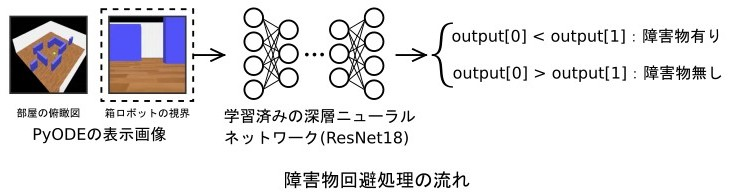
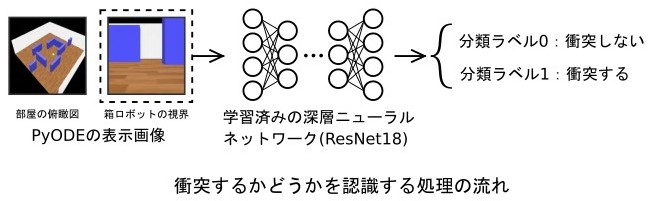
product1

Changed region(s): [[0.0, 0.0309, 1.0, 0.7423], [0.245, 0.866, 0.7963, 0.9897]]

diff --git a/product1.html b/product1.html
@@ -33,8 +33,8 @@
         <h3 id="info0003">ロボットビジョン1 「転がる箱ロボットの衝突回避」の実行例</h3>
 <pre style = "font-size: 15px">
     
-箱ロボットの視界から障害物が有るかどうかを判定して、障害物が無い方に転がって進みます。
-障害物の判定は、学習済みの深層学習モデル(ResNet18)が行います。
+箱ロボットの視界から障害物に衝突するかどうかを判定して、衝突しない方に転がって進みます。
+衝突するかどうかの判定は、学習済みの深層学習モデル(ResNet18)が行います。
 ResNet18の学習は、左側の動画の3D空間から作成した学習用画像を使って行いました。
 左側の動画は、学習用画像と同じ環境で衝突回避を行っています。
 右側の動画は、今回の学習済みモデル(ResNet18)にとっては、未知の環境ですが、上手く衝突回避することが出来ました。
